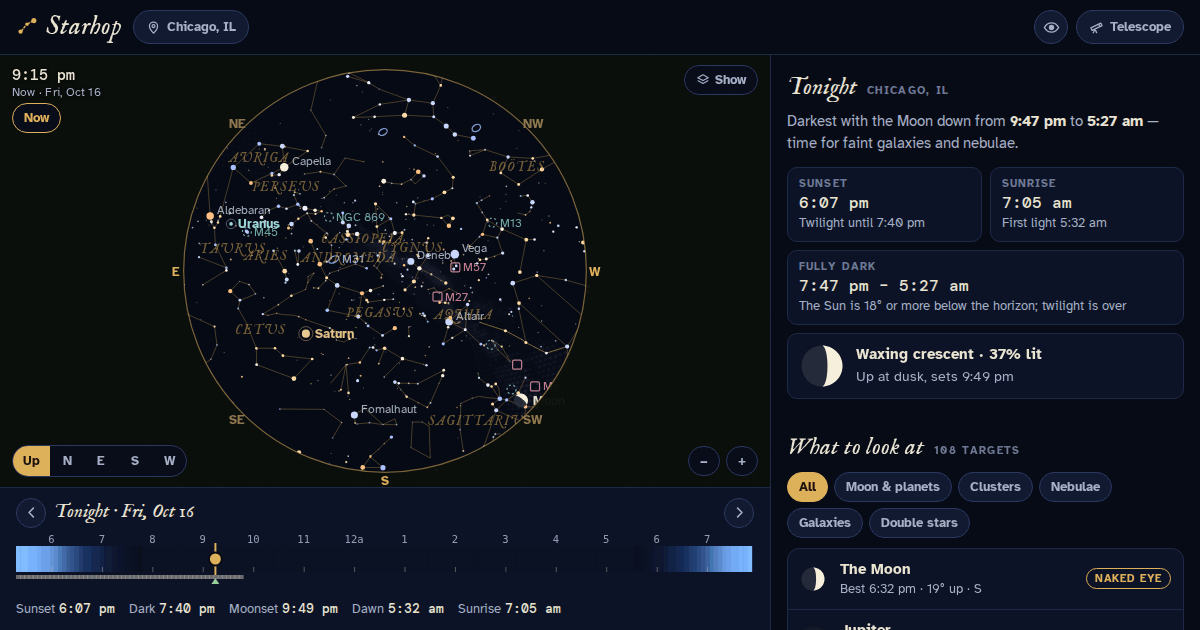
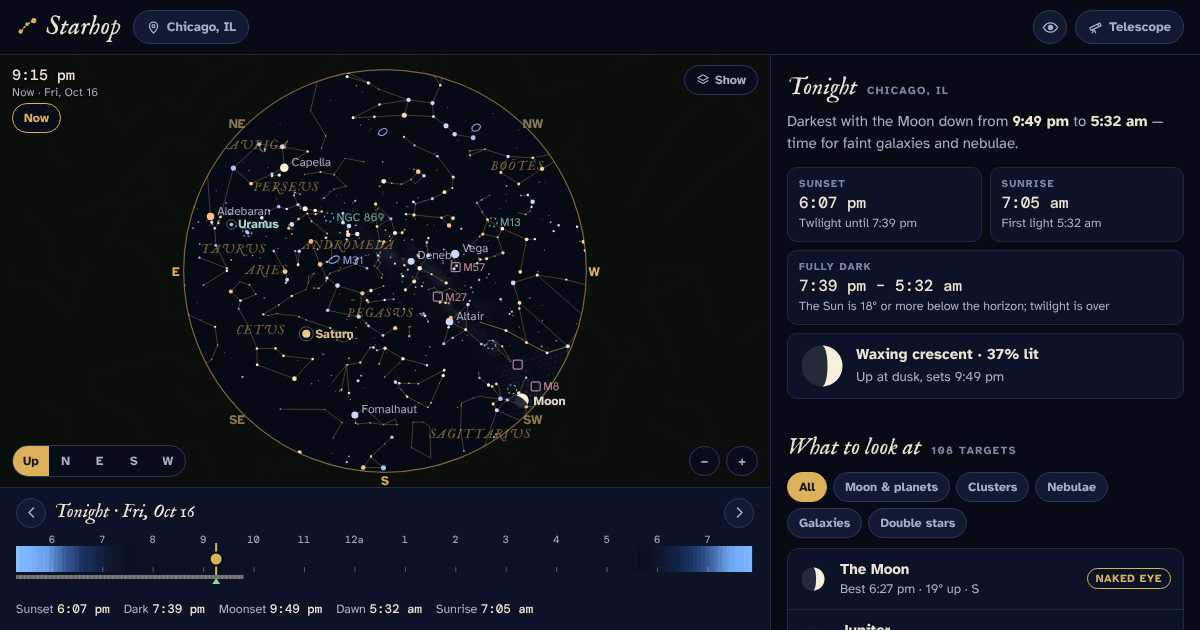
Put the README in the kit's shape, with phone screenshots
The README now opens like the other projects': the address to use it, a
bold line saying what it is, and a row of three phone screenshots (the
sky tonight, what to look at, and M13's card with its star-hop). Its
text and warnings stay, regrouped under Running it (opening index.html
from disk doesn't work; pointing and Use my location need https or
localhost) and a new Files list, and the double-star line now mentions
your eyepieces. tools/screenshots.mjs draws docs/phone-*.png and og.png
at a pinned place and time, Chicago at 9:15 pm on Oct 16, saved with a
256-colour palette (upng-js, a dev dependency, as in Happy Accidents).
The redrawn og.png fixes the old one's twilight times, which said
twilight lasted until 7:40 pm but full dark began at 7:47. Answers "Kit:
README isn't in the house shape and has no screenshots".

Claude-Session: https://claude.ai/code/session_01N3tHmrVtD9q2Zcak1ErX34

diff --git a/README.md b/README.md
@@ -1,10 +1,16 @@
 # Starhop
 
-What's up tonight from where you are, what's worth pointing a telescope at, and how to find it by hopping from stars you know.
+**Use it: [starhop.junkdrawer.works](https://starhop.junkdrawer.works/)**
 
-Use it at [starhop.junkdrawer.works](https://starhop.junkdrawer.works/). It installs as an app (from the browser's menu, or Share → Add to Home Screen on an iPhone) and works offline once it has loaded: `sw.js` keeps the page, the library, the data files and the fonts. `manifest.webmanifest` and the icons (`node tools/make-icons.mjs` redraws the PNGs from `icon.svg`) let it install, and `og.png` is the link preview.
+**What's up tonight from where you are, what's worth pointing a telescope at, and how to find it by hopping from stars you know.** Set where you observe and the telescope you have, and Starhop draws tonight's sky as it looks from there, says when it's properly dark and lists what's worth a look. Tap anything for where to find it: a finder chart with a star-hop from bright stars, and how it will look in your eyepieces. It installs as an app (from the browser's menu, or Share → Add to Home Screen on an iPhone) and works offline once it has loaded.
 
-It is one HTML page plus a few data files, with no build step and no server code. Host the folder anywhere static, or run `python3 -m http.server` in it and open http://localhost:8000. Opening `index.html` straight from disk won't work, because browsers block reading the data files that way. Pointing at the sky and **Use my location** need a secure address: https, or localhost. `npm test` uses the page in Chromium through Playwright, with the place and date pinned so the sky is the same every run.
+<p align="center">
+  <img src="docs/phone-sky.png" alt="Starhop on a phone at 9:15 pm in Chicago: the whole sky as a round map with constellation lines and names, Saturn, Uranus and a crescent Moon setting in the southwest, the night's timeline from sunset to sunrise below it, and the start of tonight's summary" width="250">
+  &nbsp;
+  <img src="docs/phone-tonight.png" alt="Tonight in Chicago: darkest with the Moon down from 9:49 pm to 5:32 am, the sunset, sunrise and fully dark times, a 37% lit Moon, and the start of the list of what to look at, with the Moon, Jupiter, Saturn, Mars and Uranus" width="250">
+  &nbsp;
+  <img src="docs/phone-card.png" alt="The card for M13, the Great Hercules Cluster: 29° up in the northwest, when it sets and rises, and a finder chart with a dashed star-hop line from Rutilicus through the cluster and a 5° finderscope circle around it" width="250">
+</p>
 
 ## What it does
 
@@ -38,8 +44,37 @@ It is one HTML page plus a few data files, with no build step and no server code
 - **Time zones.** Every time is shown in the observing location's own time zone, whatever the device is set to.
 - **Difficulty ratings are a rule of thumb:**
   - **Galaxies and nebulae:** the object's surface brightness is compared with the sky's, helped by aperture and penalized by moonlight. For big objects the rating uses the bright core, which is what you see first.
-  - **Double stars:** rated by the power needed to split them (roughly 240 ÷ separation in arcseconds) against your telescope's resolving limit.
+  - **Double stars:** rated by the power needed to split them (roughly 240 ÷ separation in arcseconds), against your telescope's resolving limit and the highest power your eyepieces reach.
 - **Star-hops.** Starhop looks for two bright stars with the target on or near the line between them, preferring short, bright, well-aligned pairs. When there is no such pair, it falls back to the nearest bright star.
+
+## Running it
+
+It's a static site: one HTML page plus a few data files, with no build step and no server code. Host the folder anywhere static, or serve it from here:
+
+```sh
+python3 -m http.server        # then open http://localhost:8000
+npm test                      # uses the page in Chromium through Playwright, with the place and date pinned so the sky is the same every run
+npm install                   # once, for the PNG encoder the screenshots use (upng-js)
+node tools/screenshots.mjs    # redraws docs/*.png and og.png
+node tools/make-icons.mjs     # redraws the PNG icons from icon.svg
+python3 tools/build_data.py   # rebuilds data/; the steps to fetch its sources are at the top of the script
+```
+
+Opening `index.html` straight from disk won't work, because browsers block reading the data files that way. Pointing at the sky and **Use my location** need a secure address: https, or localhost.
+
+To put it online with GitHub Pages: **Settings → Pages → Build and deployment → Deploy from a branch**, then pick `main` and `/ (root)`. The `CNAME` file gives it its own address.
+
+### Files
+
+- `index.html`: the whole app: the sky map, the night's timeline, tonight's summary, the targets and their ratings, the object cards with their finder charts, star-hops and eyepiece views, and the telescope and location sheets. Your settings are kept in the browser's localStorage.
+- `js/astronomy.browser.min.js`: [Astronomy Engine](https://github.com/cosinekitty/astronomy) 2.1.19 (MIT), served from here.
+- `data/`: the stars, constellations, deep-sky objects, Milky Way and cities, built by `tools/build_data.py`. [data/SOURCES.md](data/SOURCES.md) has their licenses.
+- `fonts/`: Atkinson Hyperlegible, DM Mono and IM Fell English (SIL Open Font License), served from here so nothing loads from elsewhere.
+- `sw.js`: keeps the page, the library, the data files and the fonts for using offline.
+- `carry.js`: brings your settings over from Starhop's old address, junkdrawer.works/starhop, the first time it opens here.
+- `manifest.webmanifest`, `icon.svg` and the `icon-*.png` icons let it install; `og.png` is the link preview.
+- `tools/`: `build_data.py` and `wgsn.tsv` for the data, `screenshots.mjs`, and `make-icons.mjs` with `icon-full-bleed.svg`.
+- `test/e2e.mjs`: the test, which drives the real page in Chromium.
 
 ## Data
 
